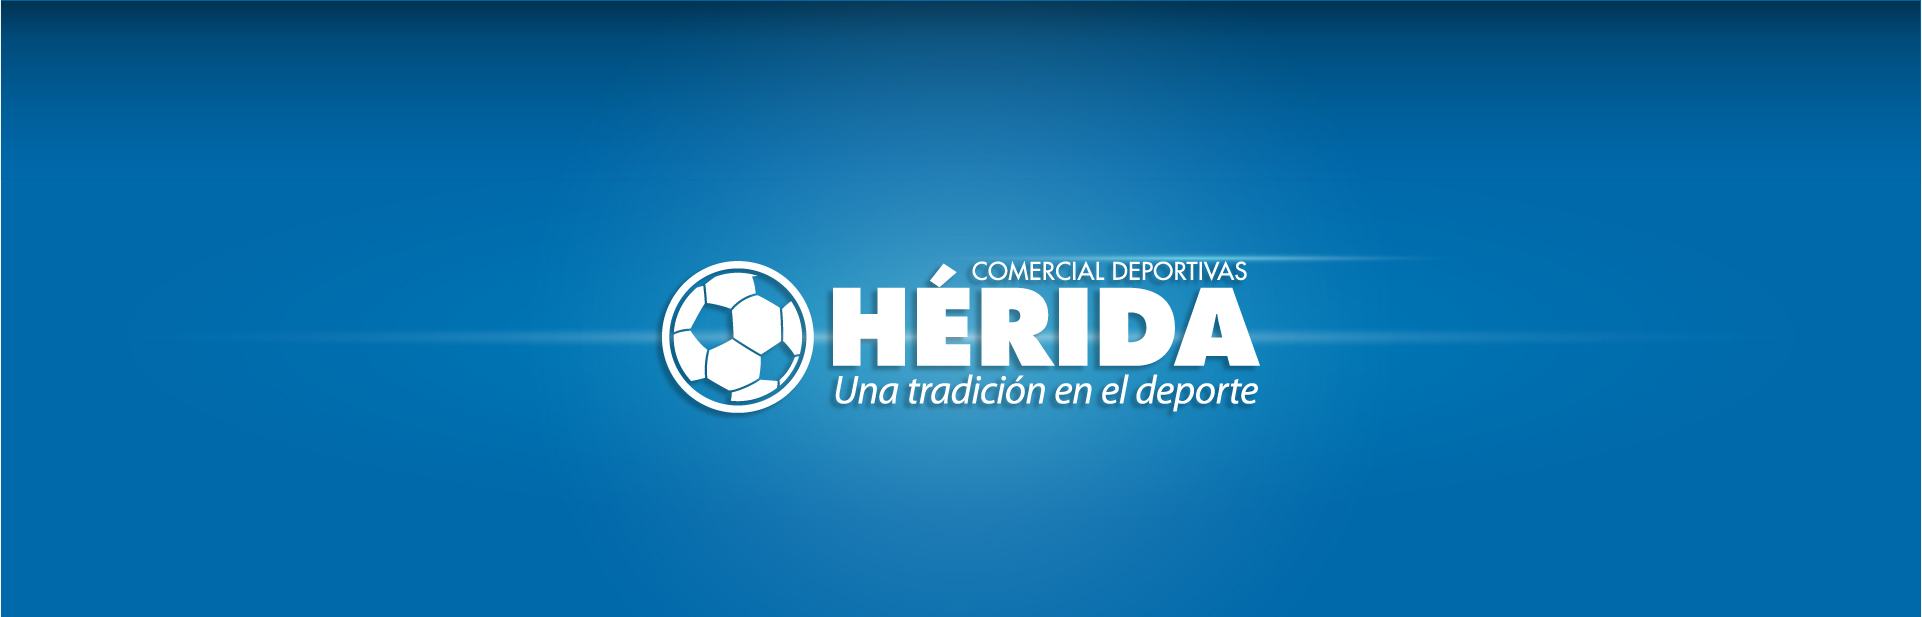
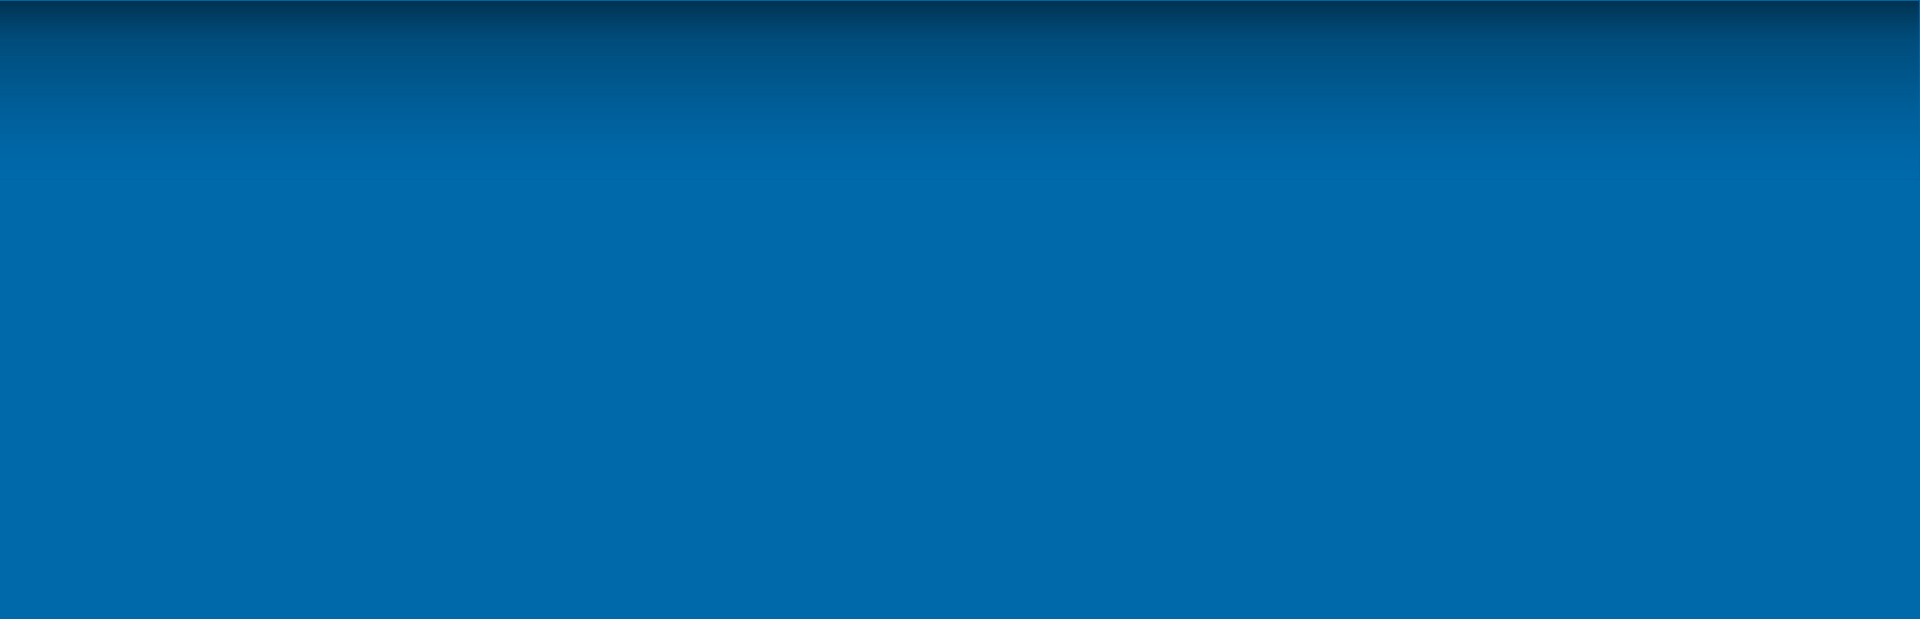
Arquitectura base del index
imágenes de background y estructura del índex para toda la pagina.

Changed region(s): [[0.25, 0.1848, 0.75, 0.9238]]

diff --git a/resources/css/style.css b/resources/css/style.css
@@ -1,0 +1,64 @@
+body{
+	padding: 0px;
+	margin: 0px;
+}
+.ctn-header{
+	background-image: url(../images/header.jpg);
+	height: 619px;
+	margin: 0 auto;
+	width: 100%; 
+}
+.logo{
+	background-image: url(../images/logo.png);
+	background-size: 100%;
+	background-repeat: no-repeat;
+	height: 619px;
+	width: 100%; 
+}
+.principal-nav{
+	background: rgba(0, 105, 170, 0.8);
+	height: 57px;
+	width: 100%;
+}
+.ctn-nosotros{
+	background-image: url(../images/nosotros.png);
+	background-repeat: no-repeat;
+	height: 854px;
+	width: 100%; 
+}
+.ctn-gray-nosotros{
+	background: rgba(0, 0, 0, 0.25); 
+	height: 854px;
+	width: 667px;
+	margin-left: 45px;
+}
+.ctn-confeccion{
+	background-image: url(../images/confeccion.png);
+	background-repeat: no-repeat;
+	height: 726px;
+	width: 100%; 
+}
+.ctn-articulos{
+	background-image: url(../images/articulos.png);
+	background-repeat: no-repeat;
+	height: 792px;
+	width: 100%; 
+}
+.ctn-dotacion{
+	background-image: url(../images/dotacion.png);
+	background-repeat: no-repeat;
+	height: 626px;
+	width: 100%; 
+}
+.ctn-productStar{
+	background-image: url(../images/productStar.png);
+	background-repeat: no-repeat;
+	height: 710px;
+	width: 100%; 
+}
+.ctn-contacto{
+	background-image: url(../images/contacto.png);
+	background-repeat: no-repeat;
+	height: 651px;
+	width: 100%; 
+}

diff --git a/index.html b/index.html
@@ -1,11 +1,28 @@
-<<!DOCTYPE html>
+<!DOCTYPE html>
 <html>
 <head>
+	<meta http-equiv="Content-Type" content="text/html; charset=utf-8" />
+	<link rel="stylesheet" type="text/css" href="resources/css/style.css"/>
 	<title>HERIDA</title>
 </head>
 <body>
-	<div>
-		<img src="resources/images/header.jpg" width="">
+	<div  class="ctn-header">
+		<div class="logo"></div>
 	</div>
+	<nav class="principal-nav">
+	</nav>
+	<section class="ctn-nosotros">
+		<div class="ctn-gray-nosotros"></div>
+	</section>
+	<section class="ctn-confeccion">
+	</section>
+	<section class="ctn-articulos">
+	</section>
+	<section class="ctn-dotacion">
+	</section>
+	<section class="ctn-productStar">
+	</section>
+	<section class="ctn-contacto">
+	</section>
 </body>
 </html>
